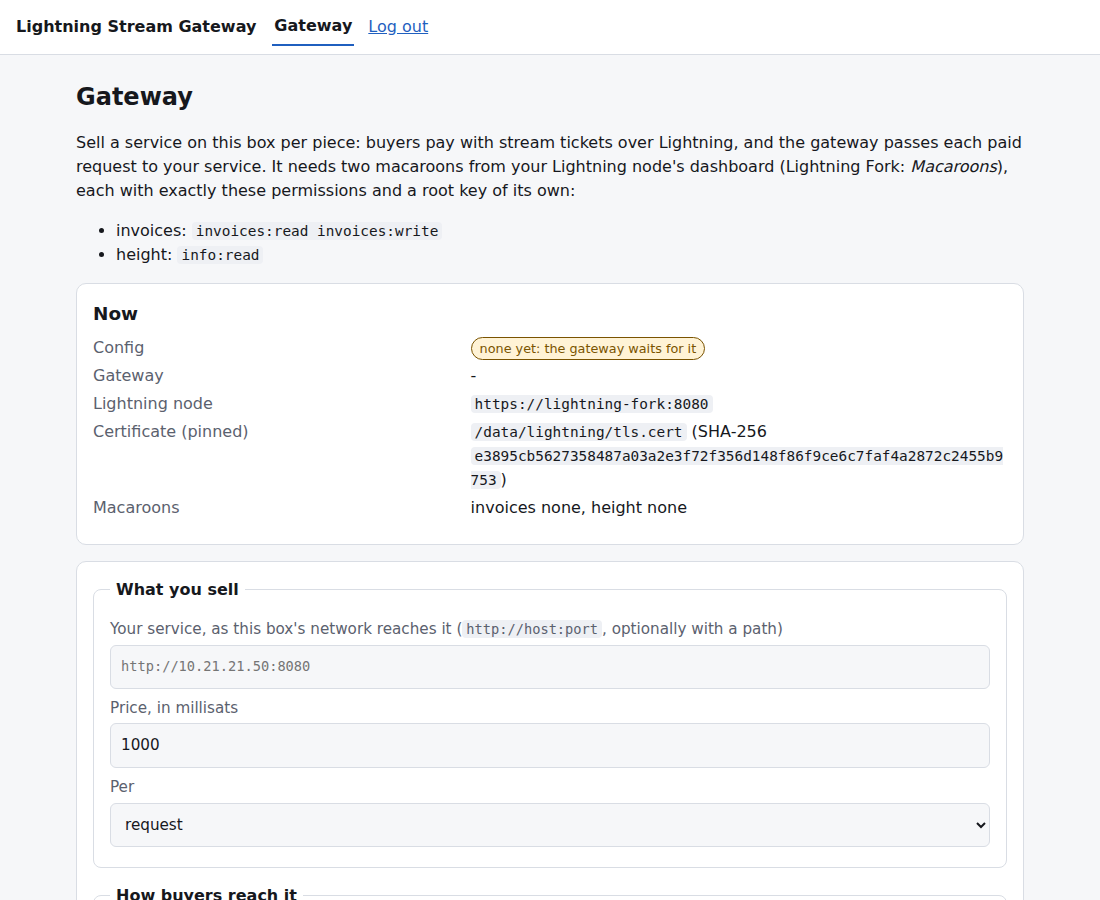
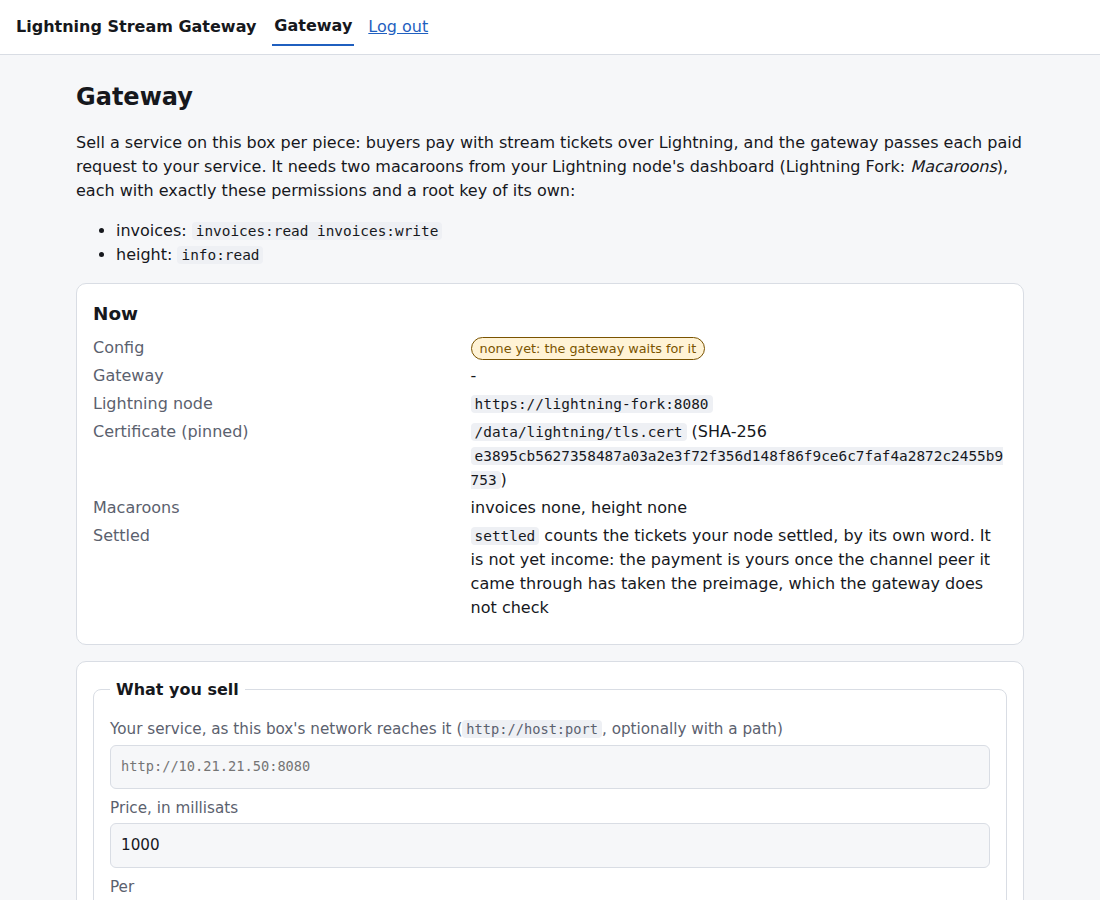
Say only what the gateway can know of a settled ticket
The docs told a seller not to count a ticket as income until the
upstream hop has fulfilled it, and that the gateway counts it when the
settle call returns. Both are true, but they left open what the gateway
could know. It can know only its own node's word: an lnd-family node
marks the invoice and its HTLCs SETTLED when it releases the preimage
itself, and nothing in the invoice changes when the channel peer commits
to the fulfil, or if it never does. Only the channel shows that: the
HTLC stays among the open channel's pending HTLCs until the peer has
committed, and a channel that closed lists nothing either.

So no accounting changes (the node cannot back one): the docs now say
exactly what the gateway counts and on whose word. A held ticket is
credited to the buyer's session, and counted in `settled` of
/x402/ticket/health, when the settle call returns success; a prepaid
ticket and a lottery win when the node shows the invoice SETTLED. Each is
the node's word, not income. docs/TICKETS.md (section 6, the seller's
row), docs/LIMITS.md and the gateway's README say so, and the README says
how a seller can check the channel itself.

The gateway's setup page says the same beside the health it shows: the
`settled` count is the node's own word and not yet income. The UI test
checks the page says it; the gateway gallery picture is retaken with it.

Changed region(s): [[0.0927, 0.5911, 0.9273, 1.0]]

diff --git a/crates/xbt-wallet-ui/src/setup.rs b/crates/xbt-wallet-ui/src/setup.rs
@@ -335,6 +335,8 @@ impl App {
             ("Certificate (pinned)", cert_line(gw.node_tls_cert.as_deref())),
             ("Macaroons", format!("invoices {}, height {}", if gw.dir.join(GW_INVOICES).is_file() { "stored" } else { "none" },
                                   if gw.dir.join(GW_INFO).is_file() { "stored" } else { "none" })),
+            // what the gateway can know: its node's word on an invoice, never the channel peer's fulfil
+            ("Settled", "<code>settled</code> counts the tickets your node settled, by its own word. It is not yet income: the payment                          is yours once the channel peer it came through has taken the preimage, which the gateway does not check".into()),
         ]));
         if let Some(c) = self.current_gateway() {
             b.push_str(&format!("<details><summary>The config the gateway reads</summary>{}</details>", json_block(&c)));

diff --git a/crates/xbt-wallet-ui/tests/ui_http.rs b/crates/xbt-wallet-ui/tests/ui_http.rs
@@ -755,6 +755,8 @@ fn the_gateway_page_writes_a_config_the_gateway_takes_and_mainnet_is_asked_for()
     assert_eq!(br.get("/readyz").status, 200, "no signer, and ready");
     let page = br.get("/").body;
     assert!(page.contains("Lightning Stream Gateway") && page.contains("invoices:read invoices:write") && !page.contains("Approvals"), "{page}");
+    // the count it shows is said to be the node's word, not income
+    assert!(page.contains("by its own word") && page.contains("not yet income"), "{page}");
     assert_eq!(br.get("/policy").status, 404);
     let inv = mac(&[("invoices", &["read", "write"])]);
     let info = mac(&[("info", &["read"])]);

diff --git a/docs/TICKETS.md b/docs/TICKETS.md
@@ -468,7 +468,7 @@ which. Nothing was run at 10 or 50 sat/vB, and no channel without anchors was ru
 | Buyer | **Funds locked, not lost: a seller whose node has gone.** | The hop closed its channel to the seller on chain at the tickets' expiry (43 blocks after the lock) and the buyer's funds were free 47 blocks after the lock, 48 with 100 tickets. The buyer's own channel stayed open and its balance was unchanged. |
 | Buyer | **Funds locked, not lost: a hop that has gone.** | Until the buyer's own HTLC expires: 123 blocks through one hop at the default, which is what `cltv_limit` bounds. Then the buyer's node closes that channel on chain. Not run here. |
 | Seller | **Nothing while its channel peer stays**, if it serves only after a successful settle of a locked ticket. | Settle returned in 4 ms with the hop stopped, and the buyer's node had the secret as soon as the hop was back. After a restart of the seller, the hop or the buyer the tickets were still `ACCEPTED` and settled. |
-| Seller | **A ticket it settled and its peer never took.** The settle call's success is the seller's own node's word. The money is the seller's when the upstream hop has fulfilled the HTLC, or when the seller has claimed it on chain. | A seller SHOULD NOT count a settled ticket as income until the upstream hop has fulfilled it: its node then no longer lists that HTLC as pending on the channel. Until then the ticket is a claim that may have to go on chain (next row), and on a channel where the ticket has no output it cannot be claimed at all (section 6.1). The gateway in this tree counts a ticket when the settle call returns and does not look at the channel. |
+| Seller | **A ticket it settled and its peer never took.** The settle call's success is the seller's own node's word. The money is the seller's when the upstream hop has fulfilled the HTLC, or when the seller has claimed it on chain. | A seller SHOULD NOT count a settled ticket as income until the upstream hop has fulfilled it. No invoice shows that: an lnd-family node marks the invoice, and its HTLCs, `SETTLED` when it releases the preimage itself, and nothing in the invoice changes when the hop commits to the fulfil, or if it never does. The channel shows it: while the channel the ticket arrived on is open, the node lists that HTLC among the channel's pending HTLCs until the hop has committed to the fulfil, and no longer after. A channel that has closed lists nothing either; the ticket is then a claim that may have to go on chain (next row), and on a channel where the ticket has no output it cannot be claimed at all (section 6.1). The gateway in this tree does not look at the channel. It credits the buyer's session, and counts the ticket in `settled` of `/x402/ticket/health`, when its settle call returns success; it credits a prepaid ticket and pays a lottery win when its node shows the invoice `SETTLED`. Each of these is its own node's word, not income. |
 | Seller | **A ticket it served and did not settle** in time. | Its own node cancels it 18 blocks before expiry. So: settle first, then serve. |
 | Seller | **An on-chain claim**, when it settled and the hop then stays away. | Its node closed the channel 16 blocks before the tickets' expiry and had the secrets on chain 12 blocks before it. It kept the 3 tickets (3,000 sat), paid 900 to 1,700 sat in fees at 1 sat/vB (five runs, anchor channels), and waited about 650 blocks for its funds, its whole channel balance with them. The buyer's node learned the secrets from the chain when the hop returned. At 10 sat/vB the same claim would cost more than the three tickets: an on-chain claim pays only in aggregate (section 6.2). |
 | Seller | **A closed channel**, if its node is offline when locked tickets expire. | As in the fourth row: the hop closes it. The seller's balance comes back on chain. |

diff --git a/docs/LIMITS.md b/docs/LIMITS.md
@@ -160,8 +160,12 @@ mainnet; its driver is not in this tree. `docs/TICKETS.md`, section 11, has the 
   behind it (`docs/TICKETS.md`, section 6.2).
 - A settled ticket is not yet income. The settle call's success is the seller's own node's word;
   the money is the seller's when the upstream hop has fulfilled the HTLC or the seller has
-  claimed it on chain. A seller should not count it before that. The gateway counts a ticket
-  when the settle call returns and does not look at the channel.
+  claimed it on chain. A seller should not count it before that. The invoice cannot tell: its
+  state is `SETTLED` from the moment the seller's node releases the preimage, whatever the hop
+  then does. Only the channel can: the HTLC stays among the open channel's pending HTLCs until
+  the hop has committed to the fulfil. The gateway does not look at the channel: its `settled`
+  count (`/x402/ticket/health`) and the balance it serves a buyer against follow the settle
+  call's answer, and a prepaid ticket or a lottery win follows the invoice's state.
 - Each held ticket with an output adds 172 weight units to the commitment transaction of every
   channel on its route, and whoever funded the channel carries the fee out of its balance while
   the ticket is held, and pays it in a force close: 43, 430 and 2,150 sat a ticket at 1, 10 and

diff --git a/crates/xbt-gateway/README.md b/crates/xbt-gateway/README.md
@@ -133,6 +133,18 @@ model produced.
 | A prepaid ticket is credited once, when the node shows its invoice settled in full: on the buyer's preimage, or by the sweep. | `Gateway::take_prepaid`, `Book::settled` |
 | Only the headers and methods you allowed reach your service; nothing it answers is read for money. | `upstream.rs` |
 
+## What the gateway knows of your money
+
+Only what your node says of an invoice. A held ticket counts as settled (`settled` in
+`/x402/ticket/health`, and the buyer's balance that the gateway serves against) when the settle
+call to your node returns success; a prepaid ticket and a lottery win count when your node shows
+the invoice `SETTLED`. That is your node's own state: it is set when your node releases the
+preimage, and nothing in the invoice changes when the channel peer the payment came through
+commits to the fulfil, or if it never does. The money is yours once the peer has done so (your
+node no longer lists the HTLC among that open channel's pending HTLCs) or once you have claimed it
+on chain. The gateway does not read your channels for this, so do not read `settled` as income
+(`docs/TICKETS.md`, section 6, the seller's rows; `docs/LIMITS.md`).
+
 ## Two kinds of ticket
 
 `tickets.settle` lists what your terms offer; the default is both.
